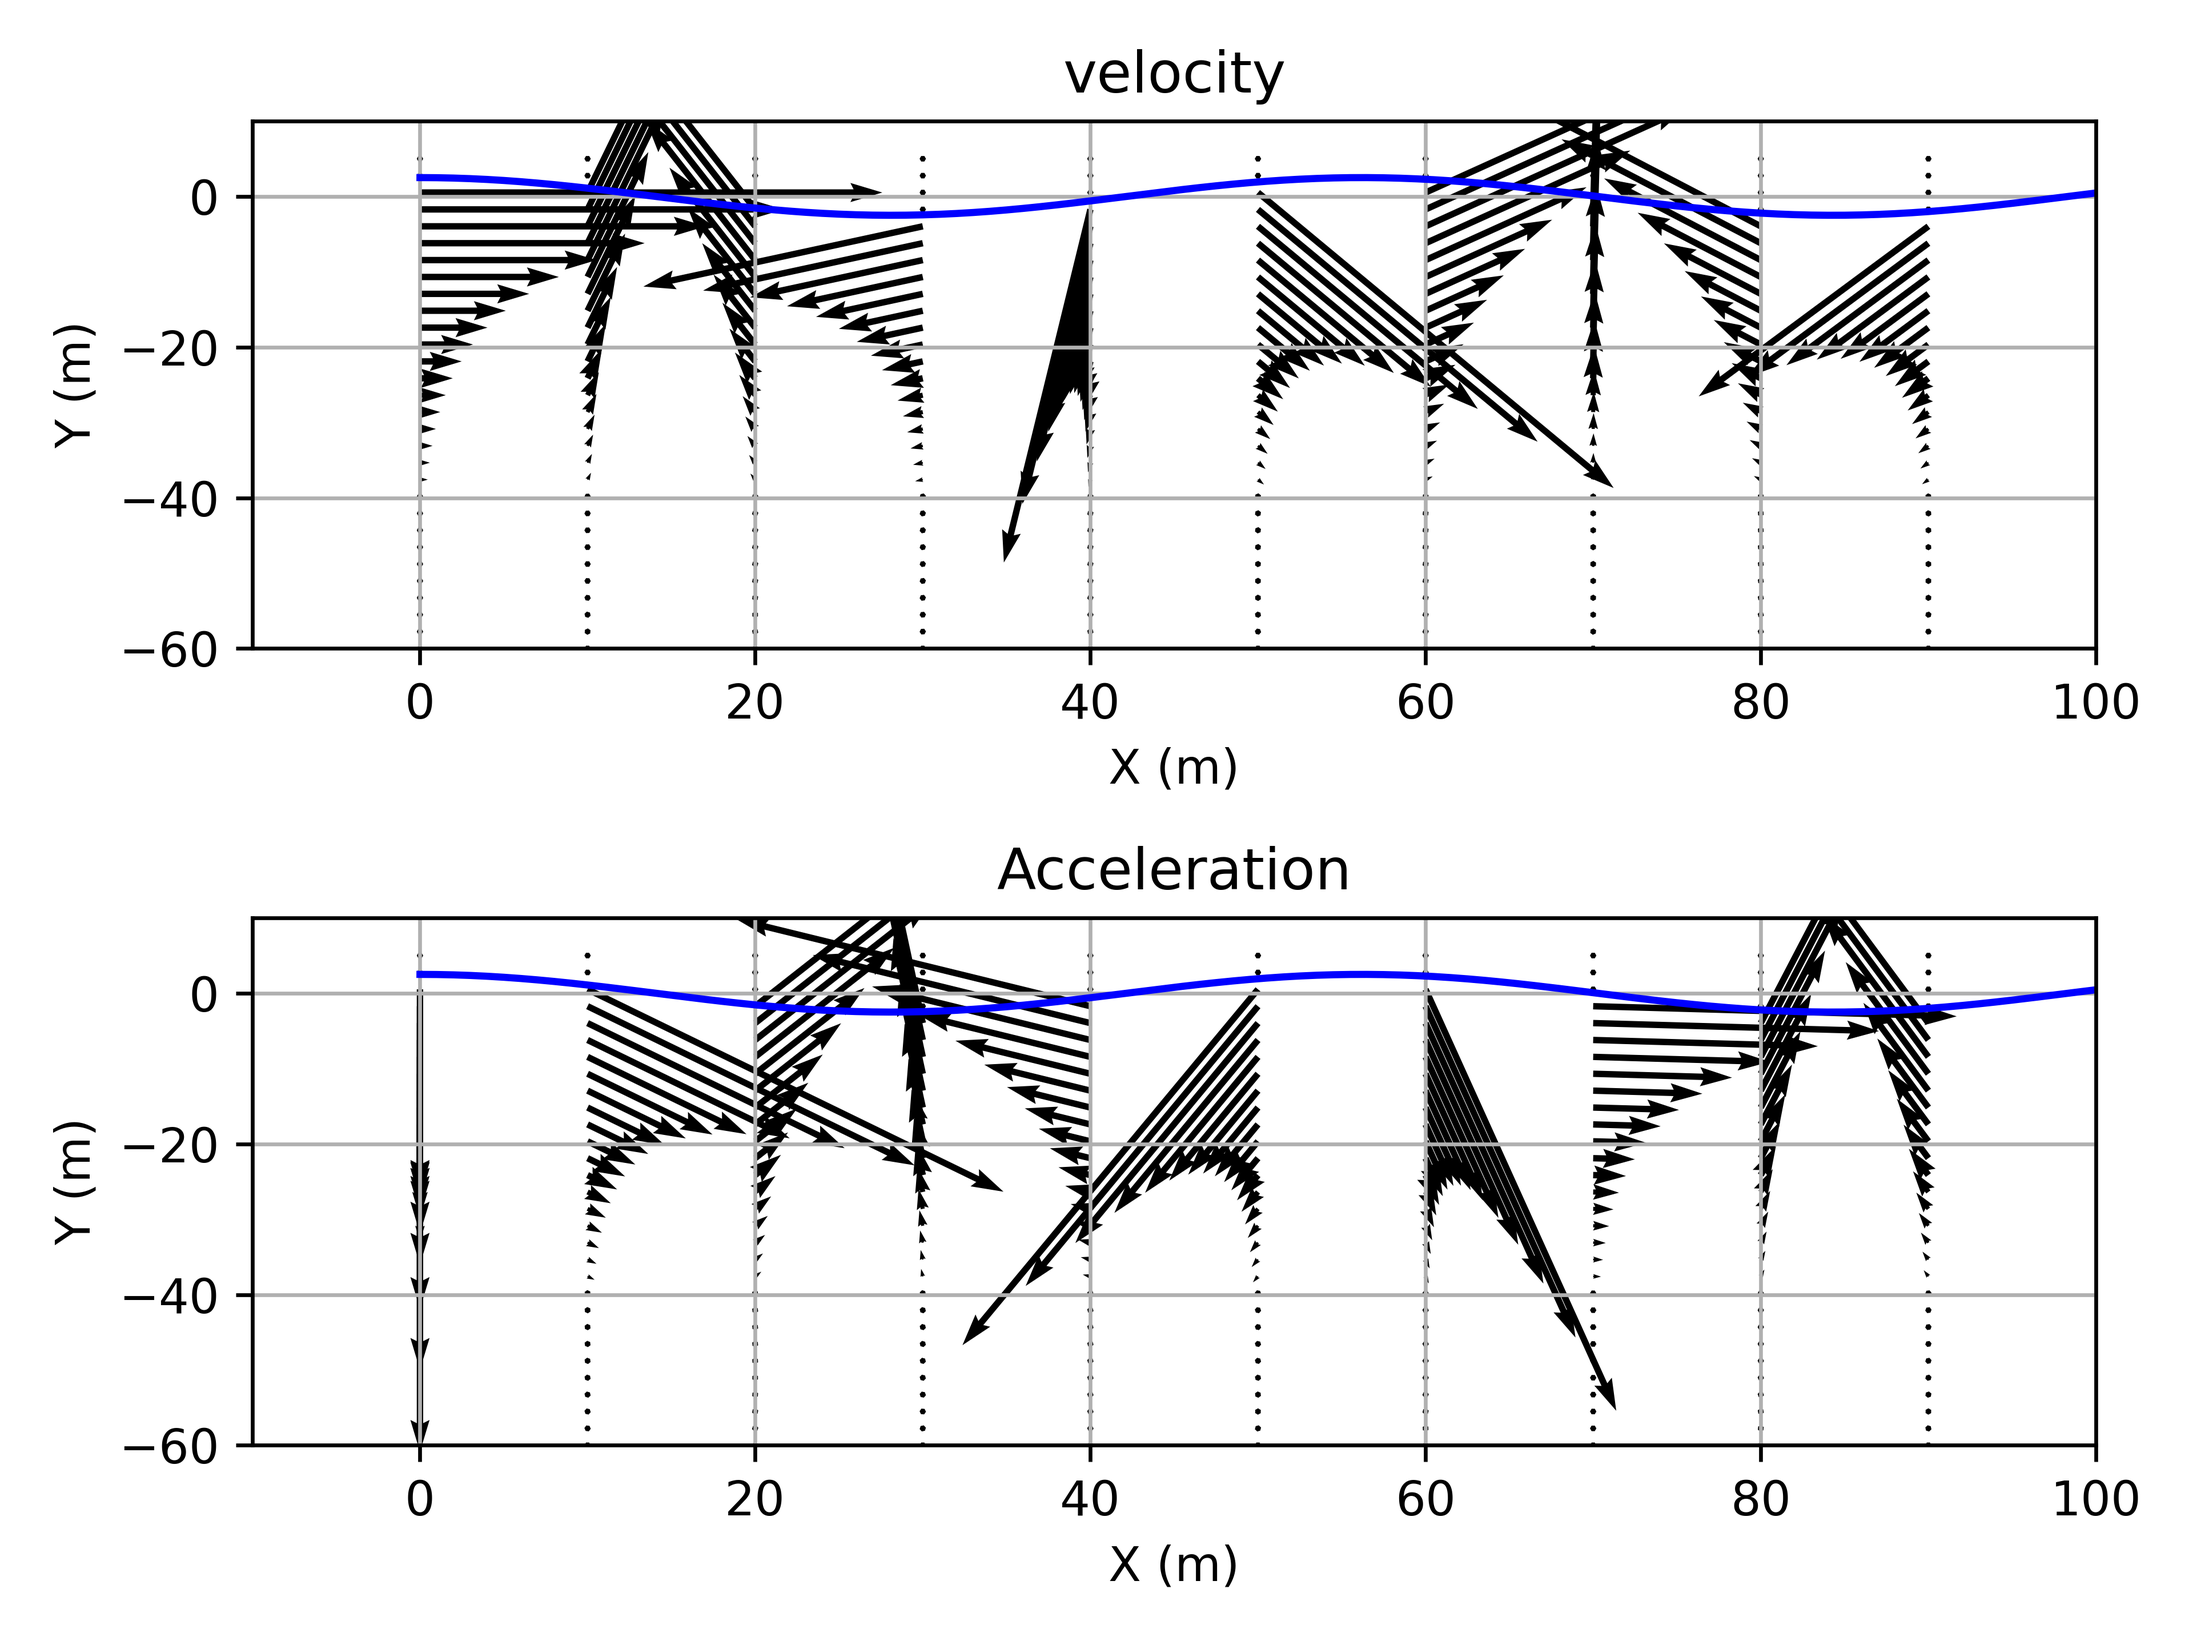
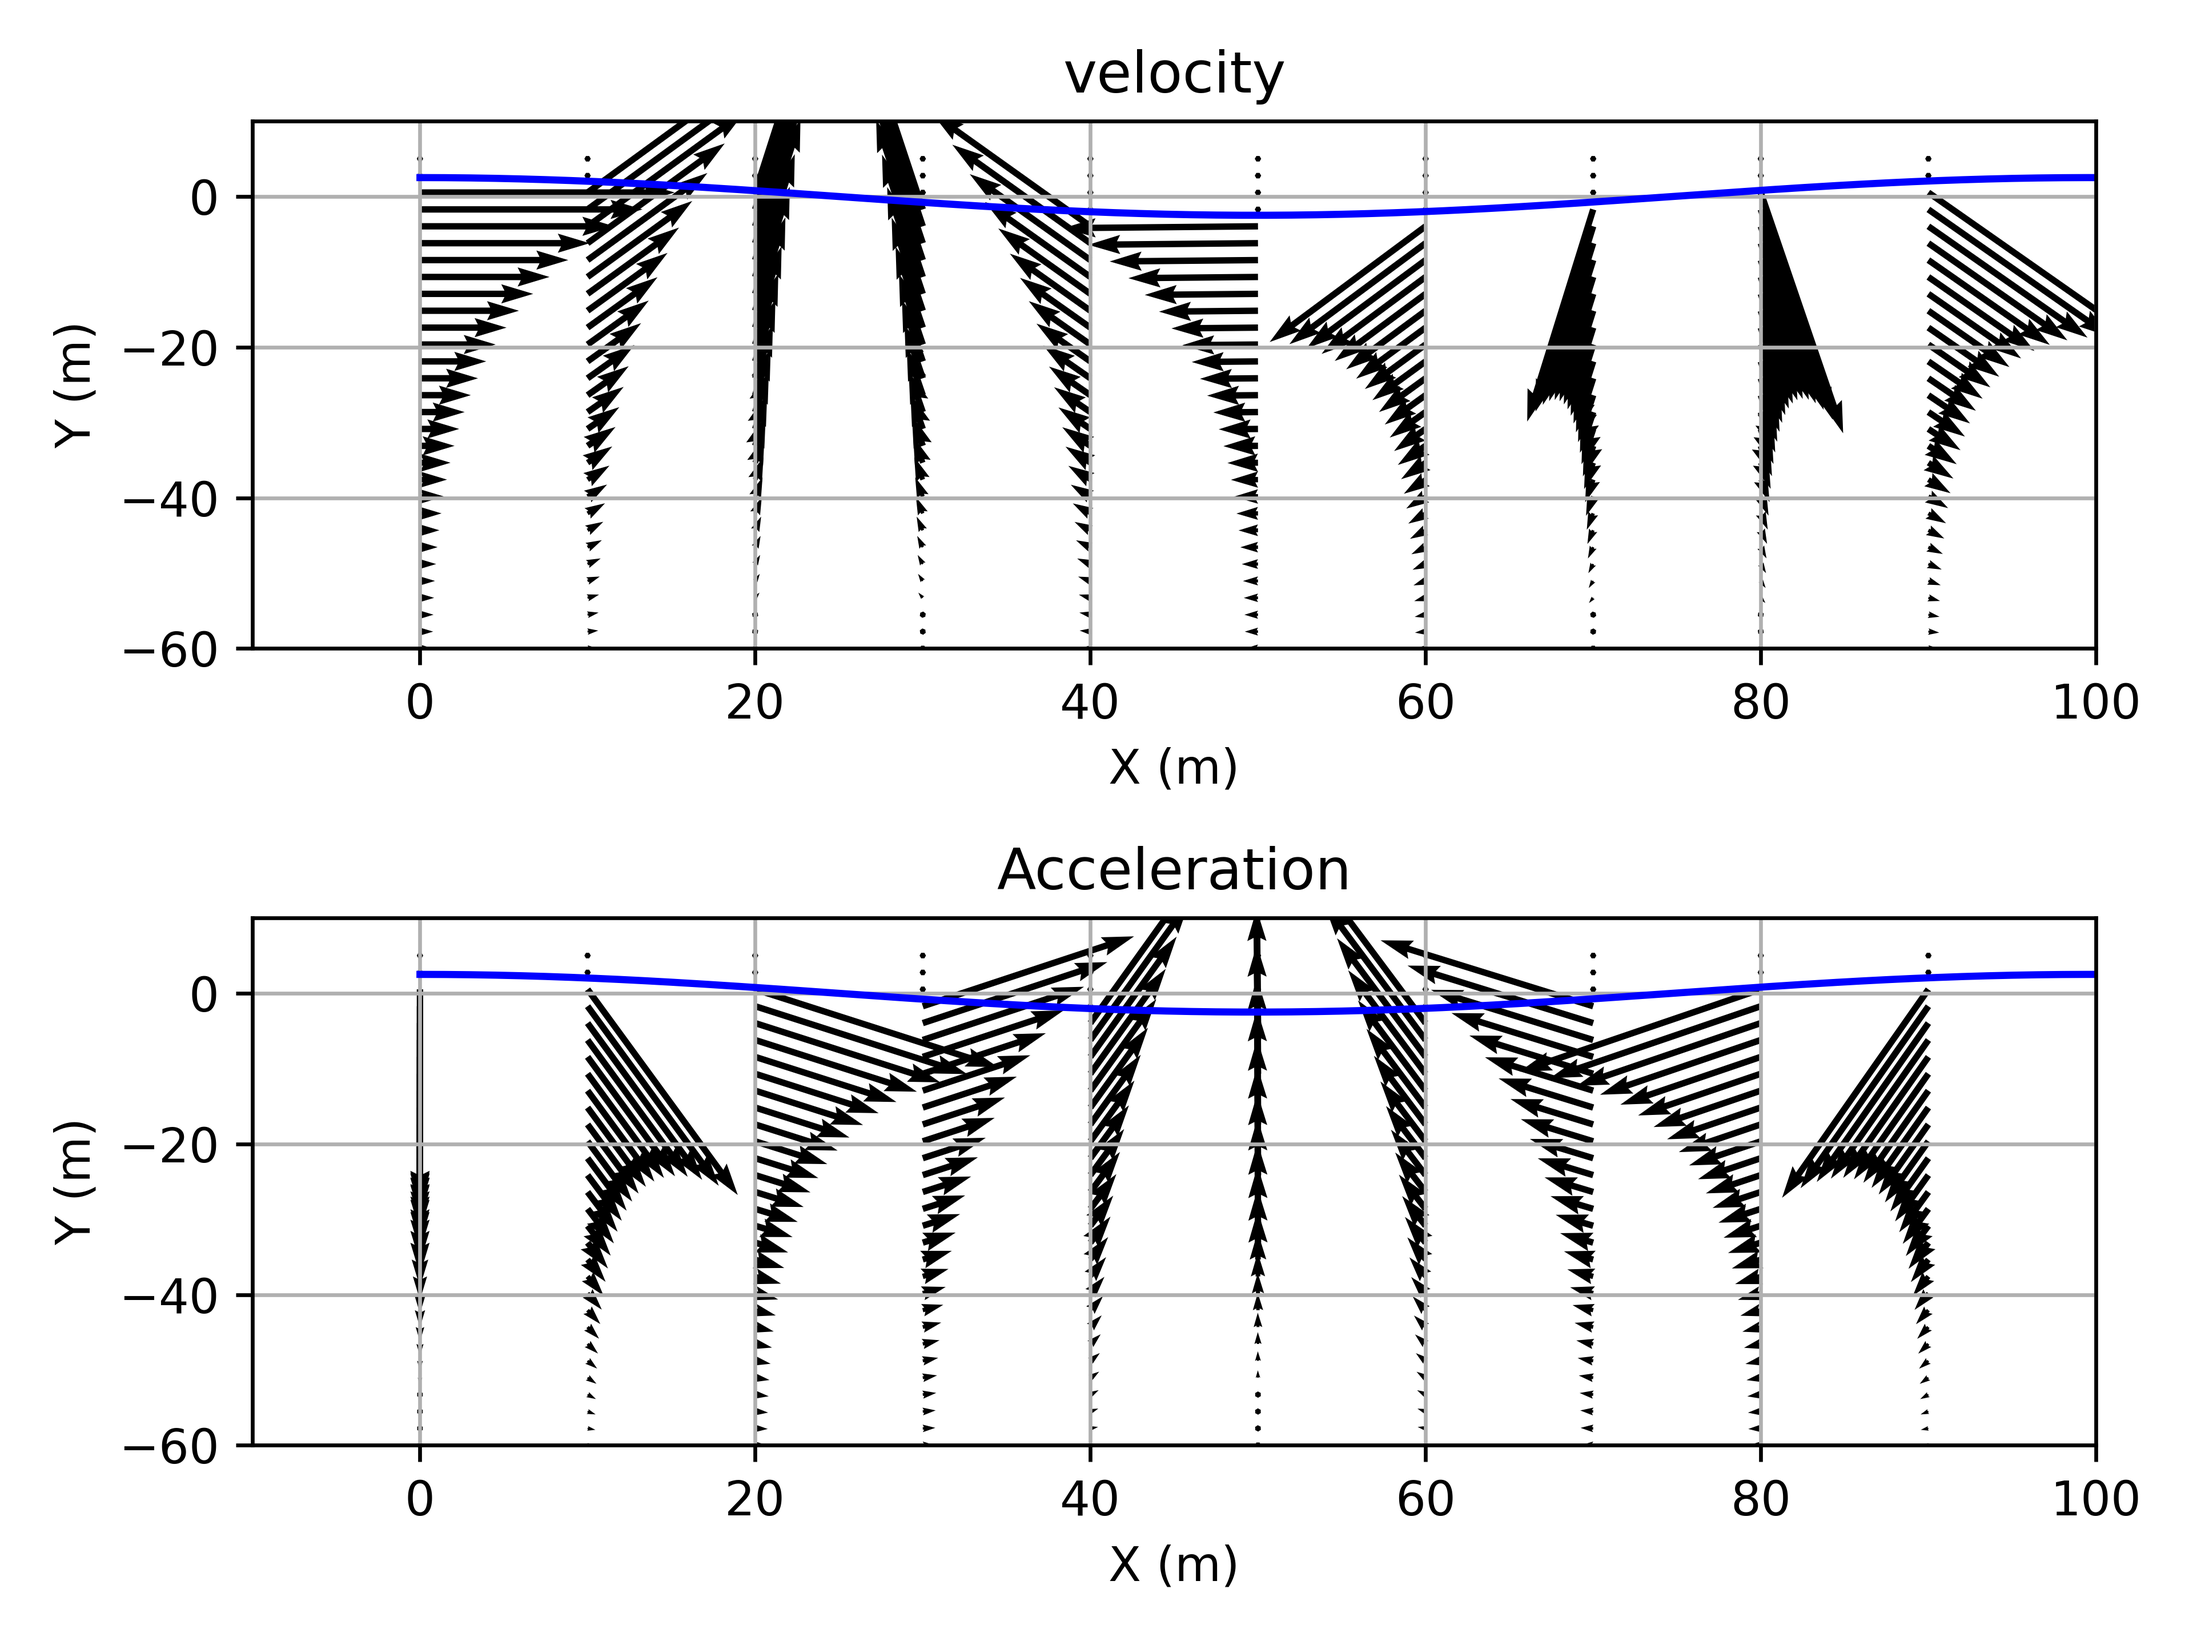
change figure

Changed region(s): [[0.1875, 0.0625, 0.9688, 0.3438], [0.25, 0.5625, 0.9688, 0.875]]

diff --git a/waves/Airywave.py b/waves/Airywave.py
@@ -331,7 +331,7 @@ if __name__ == "__main__":
     ## validation 3 shows the wave velocity and acceleration
     plt.figure()
 
-    wave1=Airywave(5,6,60,0,0)
+    wave1=Airywave(5,8,10,0,0)
 
     x_list=np.linspace(0,90,10)
     z_list=np.linspace(5,-60,30)
@@ -352,8 +352,8 @@ if __name__ == "__main__":
     velo=wave1.get_velocity_at_nodes(posi,0)
     acce=wave1.get_acceleration_at_nodes(posi,0)
 
-    print("velocity mag is"+str(np.linalg.norm(velo,axis=1)))
-    print("acceleration mag is"+str(np.linalg.norm(acce,axis=1)))
+    print("maximum velocity mag is "+str(np.max(np.linalg.norm(velo,axis=1))))
+    # print("acceleration mag is"+str(np.linalg.norm(acce,axis=1)))
 
 
     ax = plt.subplot(gs[0, 0])
